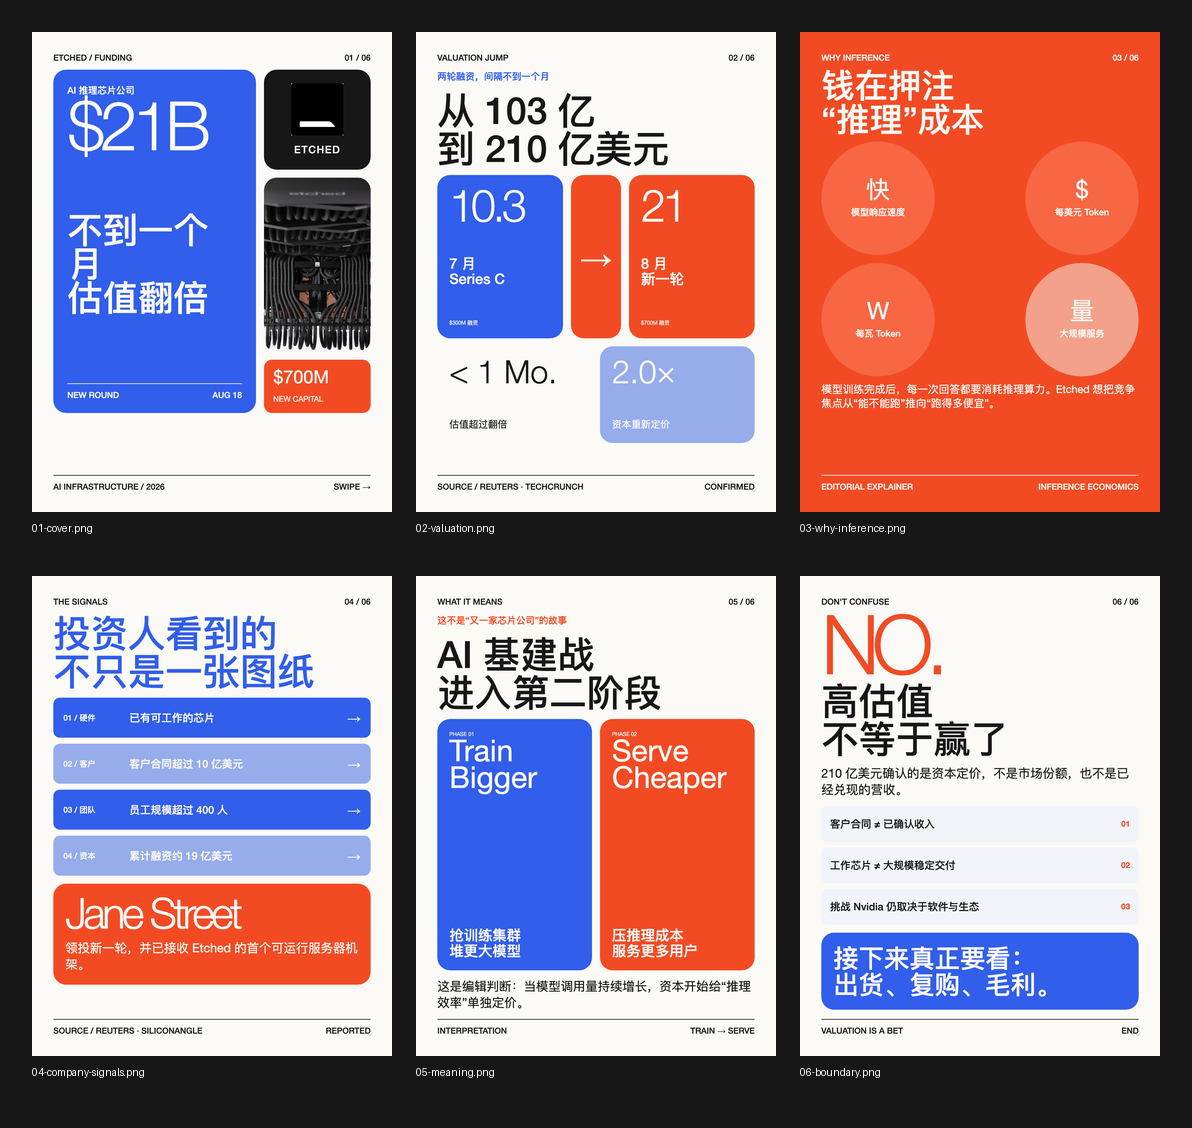
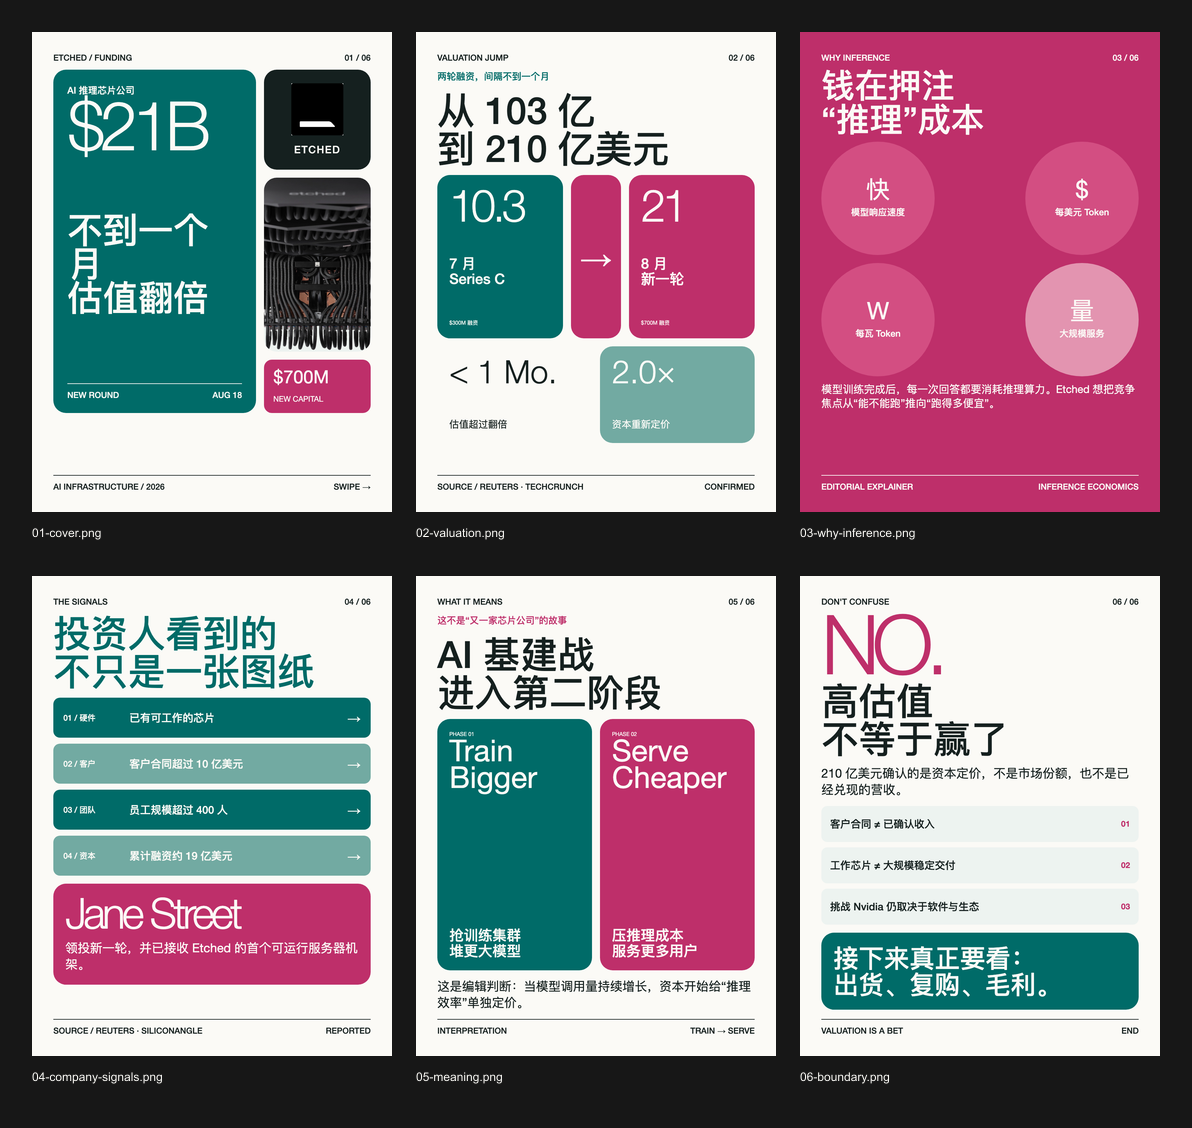
docs: showcase all three color palettes

diff --git a/README.md b/README.md
@@ -8,11 +8,11 @@ An open-source Codex Skill for turning sourced topics into Chinese or English so
 
 ## Made with Signal Grid
 
-| Etched: valuation doubled | OpenAI: training and misalignment | Pony.ai: overseas Robotaxi plan |
+| Etched: valuation doubled · Petrol/Raspberry | OpenAI: training and misalignment · Signal Blue/Orange | Pony.ai: overseas Robotaxi plan · Violet/Moss |
 | --- | --- | --- |
 | ![Etched valuation carousel](examples/showcase/etched-valuation.png) | ![OpenAI training carousel](examples/showcase/openai-misalignment.png) | ![Pony.ai Robotaxi carousel](examples/showcase/pony-ai-robotaxi.png) |
 
-Each example turns one current topic into a sourced six-card argument: hook, evidence, meaning, and boundary. Showcase imagery is used for editorial identification; credits and rights notes are recorded in [examples/showcase/SOURCES.md](examples/showcase/SOURCES.md).
+Each example turns one current topic into a sourced six-card argument: hook, evidence, meaning, and boundary. Together they also demonstrate all three built-in palettes: Petrol/Raspberry for the business/valuation story, Signal Blue/Orange for the safety news story, and Violet/Moss for the frontier-mobility deployment story. Showcase imagery is used for editorial identification; credits and rights notes are recorded in [examples/showcase/SOURCES.md](examples/showcase/SOURCES.md).
 
 ## Platform support
 

diff --git a/README.zh-CN.md b/README.zh-CN.md
@@ -8,11 +8,11 @@
 
 ## 用 Signal Grid 制作
 
-| Etched 估值翻倍 | OpenAI 训练与失配 | 小马智行海外 Robotaxi |
+| Etched 估值翻倍 · Petrol/Raspberry | OpenAI 训练与失配 · Signal Blue/Orange | 小马智行海外 Robotaxi · Violet/Moss |
 | --- | --- | --- |
 | ![Etched 估值图文](examples/showcase/etched-valuation.png) | ![OpenAI 训练图文](examples/showcase/openai-misalignment.png) | ![小马智行 Robotaxi 图文](examples/showcase/pony-ai-robotaxi.png) |
 
-每个案例都把一个时效选题整理成六张有来源的视觉叙事：钩子、证据、意义和边界。展示图中的识别素材仅用于编辑性说明，来源和权利状态记录在 [examples/showcase/SOURCES.md](examples/showcase/SOURCES.md)。
+每个案例都把一个时效选题整理成六张有来源的视觉叙事：钩子、证据、意义和边界。三个案例同时展示全部内置色板：商业与估值选题使用 Petrol/Raspberry，安全新闻使用 Signal Blue/Orange，前沿出行部署使用 Violet/Moss。展示图中的识别素材仅用于编辑性说明，来源和权利状态记录在 [examples/showcase/SOURCES.md](examples/showcase/SOURCES.md)。
 
 ## 平台适配
 
